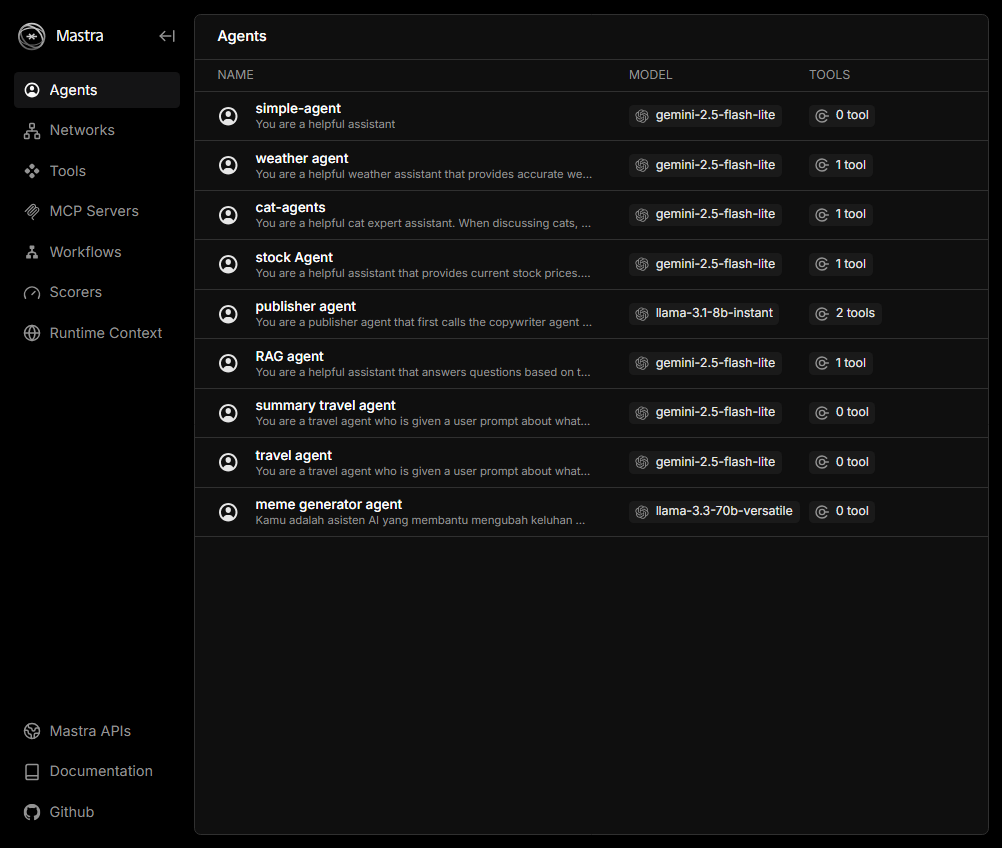
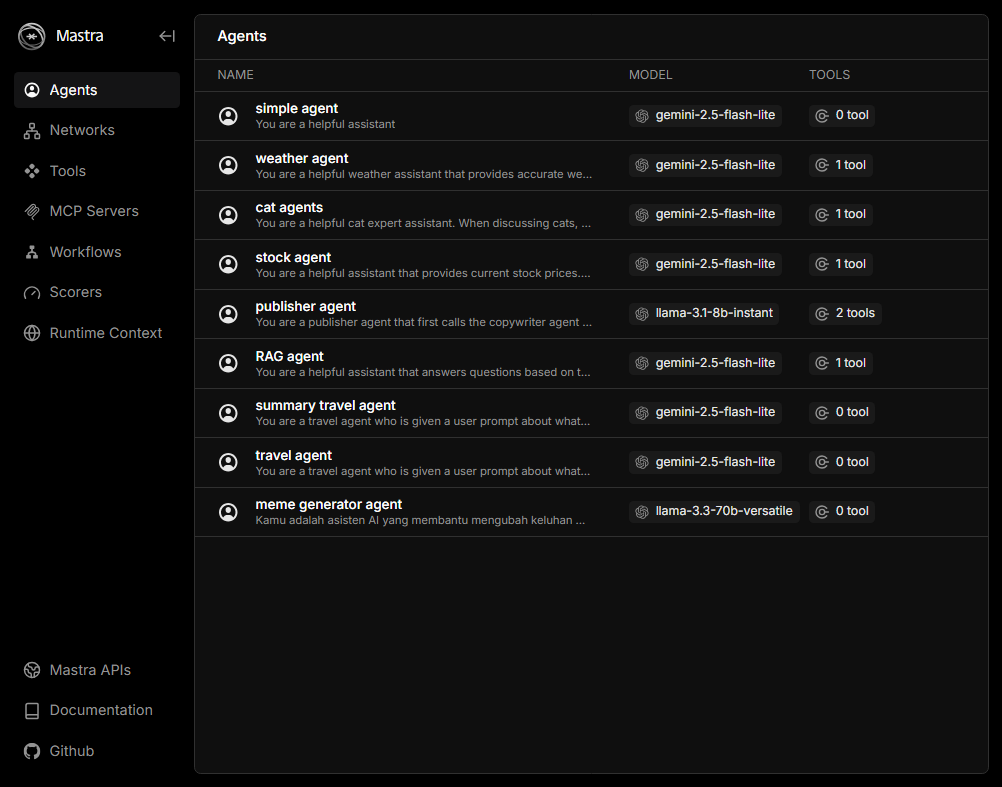
fix bugs

diff --git a/src/mastra/agents/2.agent-with-tools.ts b/src/mastra/agents/2.agent-with-tools.ts
@@ -21,7 +21,7 @@ const catFact = createTool({
 });
 
 export const catAgents = new Agent({
-  name: 'cat-agents',
+  name: 'cat agents',
   instructions: `You are a helpful cat expert assistant. When discussing cats, you should always include an interesting cat fact.
  
   Your main responsibilities:

diff --git a/src/mastra/agents/1.simple-agent.ts b/src/mastra/agents/1.simple-agent.ts
@@ -8,7 +8,7 @@ import { createGoogleGenerativeAI } from '@ai-sdk/google';
 // });
 
 export const simpleAgent = new Agent({
-  name: 'simple-agent',
+  name: 'simple agent',
   instructions: `You are a helpful assistant`,
   model: google('gemini-2.5-flash-lite'),
 });

diff --git a/README.md b/README.md
@@ -1,6 +1,6 @@
 # 🧠 Building AI Agents 101 (Mastra + Vercel AI SDK)
 
-Build AI agents step by step by step in a simple way using Mastra
+Build AI agents in a simple way by learning through examples
 
 ![Alt Text](image.png)
 
